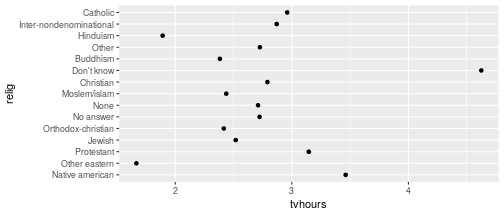
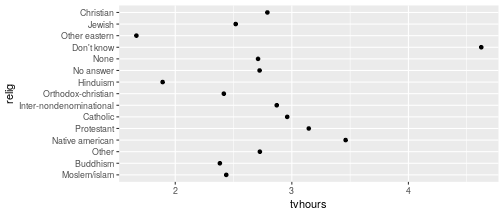
updates

diff --git a/02_r-intro/05_factors.html b/02_r-intro/05_factors.html
@@ -320,10 +320,12 @@ levels(gss_cat$relig)
 ```
 
 ```
-##  [1] "Not applicable"          "Native american"         "Other eastern"           "Protestant"             
-##  [5] "Jewish"                  "Orthodox-christian"      "No answer"               "None"                   
-##  [9] "Moslem/islam"            "Christian"               "Don't know"              "Buddhism"               
-## [13] "Other"                   "Hinduism"                "Inter-nondenominational" "Catholic"
+##  [1] "Moslem/islam"            "Buddhism"                "Other"                  
+##  [4] "Not applicable"          "Native american"         "Protestant"             
+##  [7] "Catholic"                "Inter-nondenominational" "Orthodox-christian"     
+## [10] "Hinduism"                "No answer"               "None"                   
+## [13] "Don't know"              "Other eastern"           "Jewish"                 
+## [16] "Christian"
 ```
 
 manually (⚠ extremely sensitive to typos):
@@ -334,10 +336,12 @@ levels(factor(gss_cat$relig, levels=c("Moslem/islam", "Hinduism", "Buddhism", "O
 ```
 
 ```
-##  [1] "Moslem/islam"            "Hinduism"                "Buddhism"                "Other eastern"          
-##  [5] "Jewish"                  "Christian"               "Orthodox-christian"      "Catholic"               
-##  [9] "Protestant"              "Inter-nondenominational" "Native american"         "Other"                  
-## [13] "None"                    "No answer"               "Don't know"              "Not applicable"
+##  [1] "Moslem/islam"            "Hinduism"                "Buddhism"               
+##  [4] "Other eastern"           "Jewish"                  "Christian"              
+##  [7] "Orthodox-christian"      "Catholic"                "Protestant"             
+## [10] "Inter-nondenominational" "Native american"         "Other"                  
+## [13] "None"                    "No answer"               "Don't know"             
+## [16] "Not applicable"
 ```
 
 ---
@@ -372,10 +376,12 @@ levels(reorder(gss_cat$relig, gss_cat$tvhours, na.rm=TRUE))
 ```
 
 ```
-##  [1] "Other eastern"           "Hinduism"                "Buddhism"                "Orthodox-christian"     
-##  [5] "Moslem/islam"            "Jewish"                  "None"                    "No answer"              
-##  [9] "Other"                   "Christian"               "Inter-nondenominational" "Catholic"               
-## [13] "Protestant"              "Native american"         "Don't know"              "Not applicable"
+##  [1] "Other eastern"           "Hinduism"                "Buddhism"               
+##  [4] "Orthodox-christian"      "Moslem/islam"            "Jewish"                 
+##  [7] "None"                    "No answer"               "Other"                  
+## [10] "Christian"               "Inter-nondenominational" "Catholic"               
+## [13] "Protestant"              "Native american"         "Don't know"             
+## [16] "Not applicable"
 ```
 
 &lt;br/&gt;
@@ -448,8 +454,10 @@ levels(gss_cat$partyid)
 ```
 
 ```
-##  [1] "No answer"          "Don't know"         "Other party"        "Strong republican"  "Not str republican"
-##  [6] "Ind,near rep"       "Independent"        "Ind,near dem"       "Not str democrat"   "Strong democrat"
+##  [1] "No answer"          "Don't know"         "Other party"       
+##  [4] "Strong republican"  "Not str republican" "Ind,near rep"      
+##  [7] "Independent"        "Ind,near dem"       "Not str democrat"  
+## [10] "Strong democrat"
 ```
 
 
@@ -460,8 +468,10 @@ levels(gss_cat$partyid)
 ```
 
 ```
-##  [1] "No answer"          "Not sure"           "Other party"        "Strong republican"  "Not str republican"
-##  [6] "Ind,near rep"       "Independent"        "Ind,near dem"       "Not str democrat"   "Strong democrat"
+##  [1] "No answer"          "Not sure"           "Other party"       
+##  [4] "Strong republican"  "Not str republican" "Ind,near rep"      
+##  [7] "Independent"        "Ind,near dem"       "Not str democrat"  
+## [10] "Strong democrat"
 ```
 
 ---
@@ -478,8 +488,10 @@ levels(gss_cat$partyid)
 ```
 
 ```
-##  [1] "No answer"          "Not sure"           "Other party"        "Strong republican"  "Not str republican"
-##  [6] "Ind,near rep"       "Independent"        "Ind,near dem"       "Not str democrat"   "Strong democrat"
+##  [1] "No answer"          "Not sure"           "Other party"       
+##  [4] "Strong republican"  "Not str republican" "Ind,near rep"      
+##  [7] "Independent"        "Ind,near dem"       "Not str democrat"  
+## [10] "Strong democrat"
 ```
 
 
@@ -493,9 +505,10 @@ levels(partyid2)
 ```
 
 ```
-##  [1] "No answer"             "Not sure"              "Other party"           "Republican, strong"   
-##  [5] "Republican, weak"      "Independent, near rep" "Independent"           "Independent, near dem"
-##  [9] "Democrat, weak"        "Democrat, strong"
+##  [1] "No answer"             "Not sure"              "Other party"          
+##  [4] "Republican, strong"    "Republican, weak"      "Independent, near rep"
+##  [7] "Independent"           "Independent, near dem" "Democrat, weak"       
+## [10] "Democrat, strong"
 ```
 
 ---
@@ -529,8 +542,8 @@ summary(relig2)
 ```
 
 ```
-## Protestant     Jewish       None  Christian   Catholic      Other 
-##      10846        388       3523        689       5124        913
+## Protestant   Catholic       None     Jewish  Christian      Other 
+##      10846       5124       3523        388        689        913
 ```
 
 ---

diff --git a/02_r-intro/06_vis-factor.html b/02_r-intro/06_vis-factor.html
@@ -284,6 +284,29 @@ For this your turn use the `titanic` object from the `classdata` package.
 - Read up on the `position` parameter in `?geom_bar`. Try out other options for `position`.
 
 ---
+class: yourturn
+.center[
+# Your turn 
+]
+
+For this your turn use the `titanic` object from the `classdata` package:
+
+
+```r
+# devtools::install_github("haleyjeppson/classdata")
+library(classdata)
+data("titanic")
+```
+
+- Draw a barchart of Gender. Interpret.
+
+- Map survival to fill color in the barchart of Gender. Interpret.
+
+- In the previous barchart change the `position` parameter to `"fill"`. Interpret.
+
+- Read up on the `position` parameter in `?geom_bar`. Try out other options for `position`.
+
+---
 class: inverse, center, middle
 # Why no pie charts?
 

diff --git a/02_r-intro/04_logical.html b/02_r-intro/04_logical.html
@@ -264,9 +264,11 @@ names(fbiwide)
 ```
 
 ```
-##  [1] "State"               "Abb"                 "Year"                "Population"          "Aggravated.assault" 
-##  [6] "Burglary"            "Larceny.theft"       "Legacy.rape"         "Motor.vehicle.theft" "Murder"             
-## [11] "Rape"                "Robbery"             "murder_rate"
+##  [1] "State"               "Abb"                 "Year"               
+##  [4] "Population"          "Aggravated.assault"  "Burglary"           
+##  [7] "Larceny.theft"       "Legacy.rape"         "Motor.vehicle.theft"
+## [10] "Murder"              "Rape"                "Robbery"            
+## [13] "murder_rate"
 ```
 
 &lt;br/&gt;
